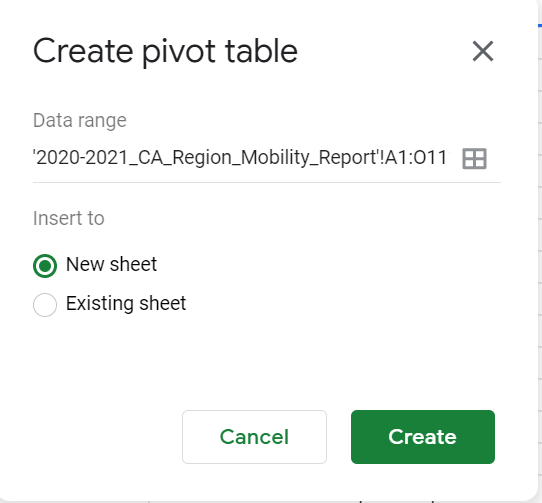
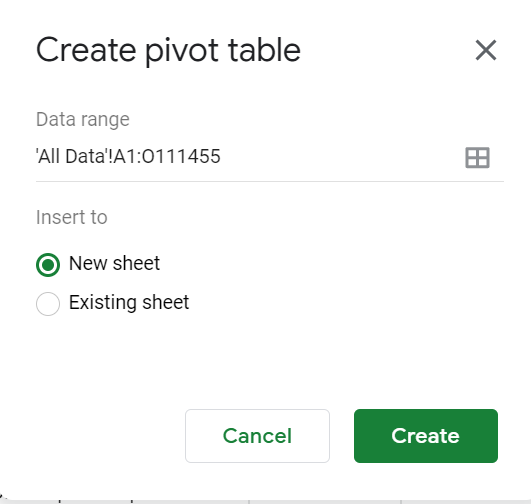
updates

diff --git a/_jays-notes.md b/_jays-notes.md
@@ -1,3 +1,4 @@
+
 Download region CSVs
 - https://www.google.com/covid19/mobility/
 
@@ -28,6 +29,50 @@ Select ```Use row 2 as headers```
 Select ```Use column A as labels```
 - Remove series to keep only a few (e.g. Ontario, Alberta, Nova Scotia)
 
+## Canadian mobility chart: 
+1. Interactive Timeseries chart that shows changes in mobility for all of Canada (across the 4 different categories)
+
+### Create a Pivot Table
+- On the ```All Data``` tab, create a new pivot table (```>Data>Pivot Table```). Insert it into a new sheet.  
+<img src="assets/img/pivot-table.PNG" alt="Create pivot table window in Google Sheets" width="300" style="border: 1px solid darkgrey">  
+
+* For **Rows**, select the ```date``` column. Uncheck *Show totals*.
+* Leave **Columns** empty (don't add anything).
+* For **Values**, add each of the following in succession (keep all summarized by SUM):
+  - ```retail_and_recreation_percent_change_from_baseline```.
+  - ```grocery_and_pharmacy_percent_change_from_baseline```
+  - ```parks_percent_change_from_baseline```	
+  - ```transit_stations_percent_change_from_baseline```	
+  - ```workplaces_percent_change_from_baseline```
+  - ```residential_percent_change_from_baseline```
+* For **Filters**, add the ```sub_region_1``` column. In the **Status** dropdown, make sure only ```(Blanks)``` is checked.  
+- Rename the new sheet created for the pivot table. Give it a distiguishing name (e.g. *Canada mobility*)
+- highlight cells B1 to G1, and use the *wrap text* button to wrap text to make it more readable.
+- Rename each variable name in the sheet to make it more readable. e.g.: 
+  - In cell B1, rename ```SUM of retail_and_recreation_percent_change_from_baseline``` to ```retail and recreation```
+  - rename ```SUM of grocery_and_pharmacy_percent_change_from_baseline``` to ```grocery and pharmacy```
+  - etc.
+
+### Create a timeline chart
+- Click on Insert > Chart 
+- Select the type of chart to be *Timeline*
+- For ```Data range``` highlight the full extent of the data (including the first header row with variable names, e.g. A1:G453 in this example).
+- Check ```Use row 1 as headers```
+- Make sure ```Use column A as labels``` is checked.
+
+### Customize the chart
+*Note: There's not a lot of customization that you can do on a Timeline chart*
+- Experiment with changing the Fill opacity, Line thickness, and Date format. 
+
+### Publish the figure to embed it in a webpage
+ 
+
+
+
+
+## Provincial comparison
+
+## Ontario county comparison
 
 * Create new pivot table (```>Data>Pivot Table```). Insert it into a new sheet.  
 <img src="assets/img/create-pivot-table.PNG" alt="Create pivot table window in Google Sheets" width="300" style="border: 1px solid darkgrey">  
@@ -74,3 +119,14 @@ Publish the chart
 <iframe width="1031" height="637" seamless frameborder="0" scrolling="no" src="https://docs.google.com/spreadsheets/d/e/2PACX-1vT0QsBupeGwVggn9tHtI9MtlK9L9dQBbc9Hk7cjbSXR0u3CYAM2YpS6RTyCGhx33mK1cASl0hrnjyFT/pubchart?oid=1991365340&amp;format=interactive"></iframe>
 ```
 
+## Provincial summaries
+* Create new pivot table (```>Data>Pivot Table```). Insert it into a new sheet.  
+<img src="assets/img/create-pivot-table.PNG" alt="Create pivot table window in Google Sheets" width="300" style="border: 1px solid darkgrey">  
+
+- In the Pivot Table Editor, set the following values: 
+|Element|Value|
+|:---:|:---:|
+|Rows|select ```sub_region1```; uncheck ```Show totals```|
+|Columns| leave empty|
+|Values| select ```retail_and_recreation_percent_change_from_baseline```; Summarise by AVERAGE|
+|Filters| Select ```sub_region_2```; Select only ```(Blanks)```|
